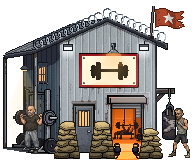
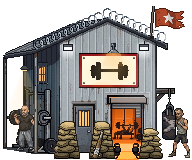
Gym T5: taped bat on the sandbags, squatter moved behind the lean-to post (sw v388)
Claude-Session: https://claude.ai/code/session_01ApSBA69pbdfqbrgsgd5C4F

Changed region(s): [[0.0312, 0.6562, 0.3125, 0.9688], [0.4688, 0.8125, 0.5625, 1.0]]

diff --git a/sw.js b/sw.js
@@ -15,7 +15,7 @@
  * edited CSS/JS) so returning users pick up the update instead of serving a
  * stale cached shell forever — the whole point of a version string here.
  */
-const CACHE_NAME = 'deadline-shell-v387';
+const CACHE_NAME = 'deadline-shell-v388';
 
 const APP_SHELL = [
     './',
